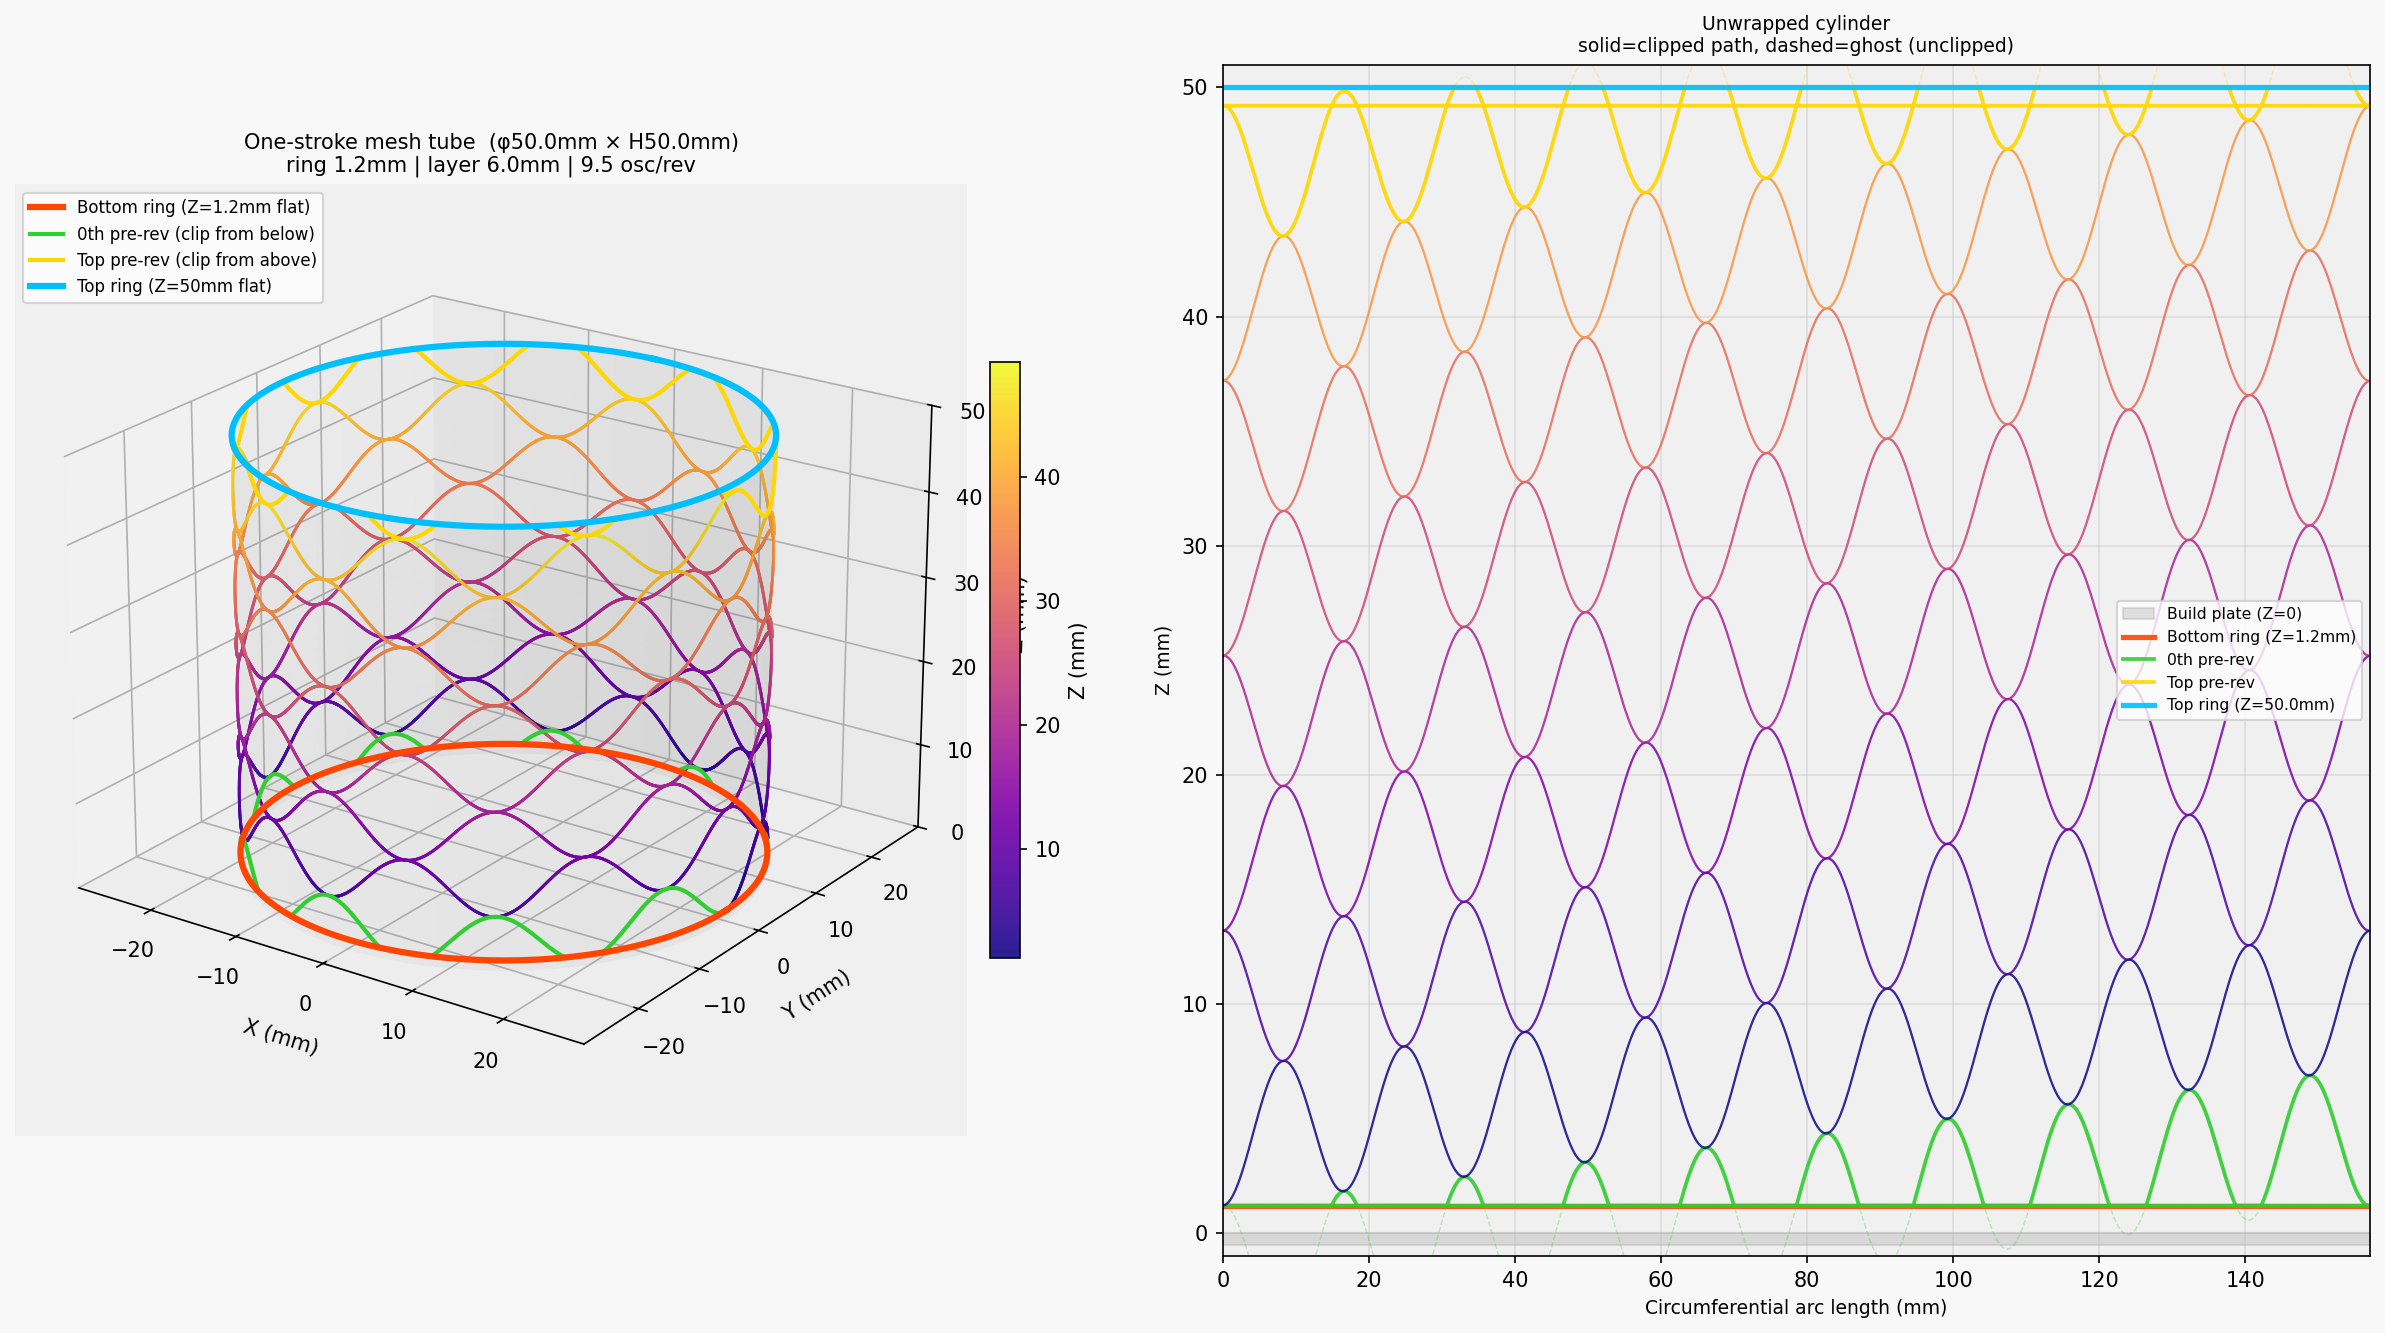
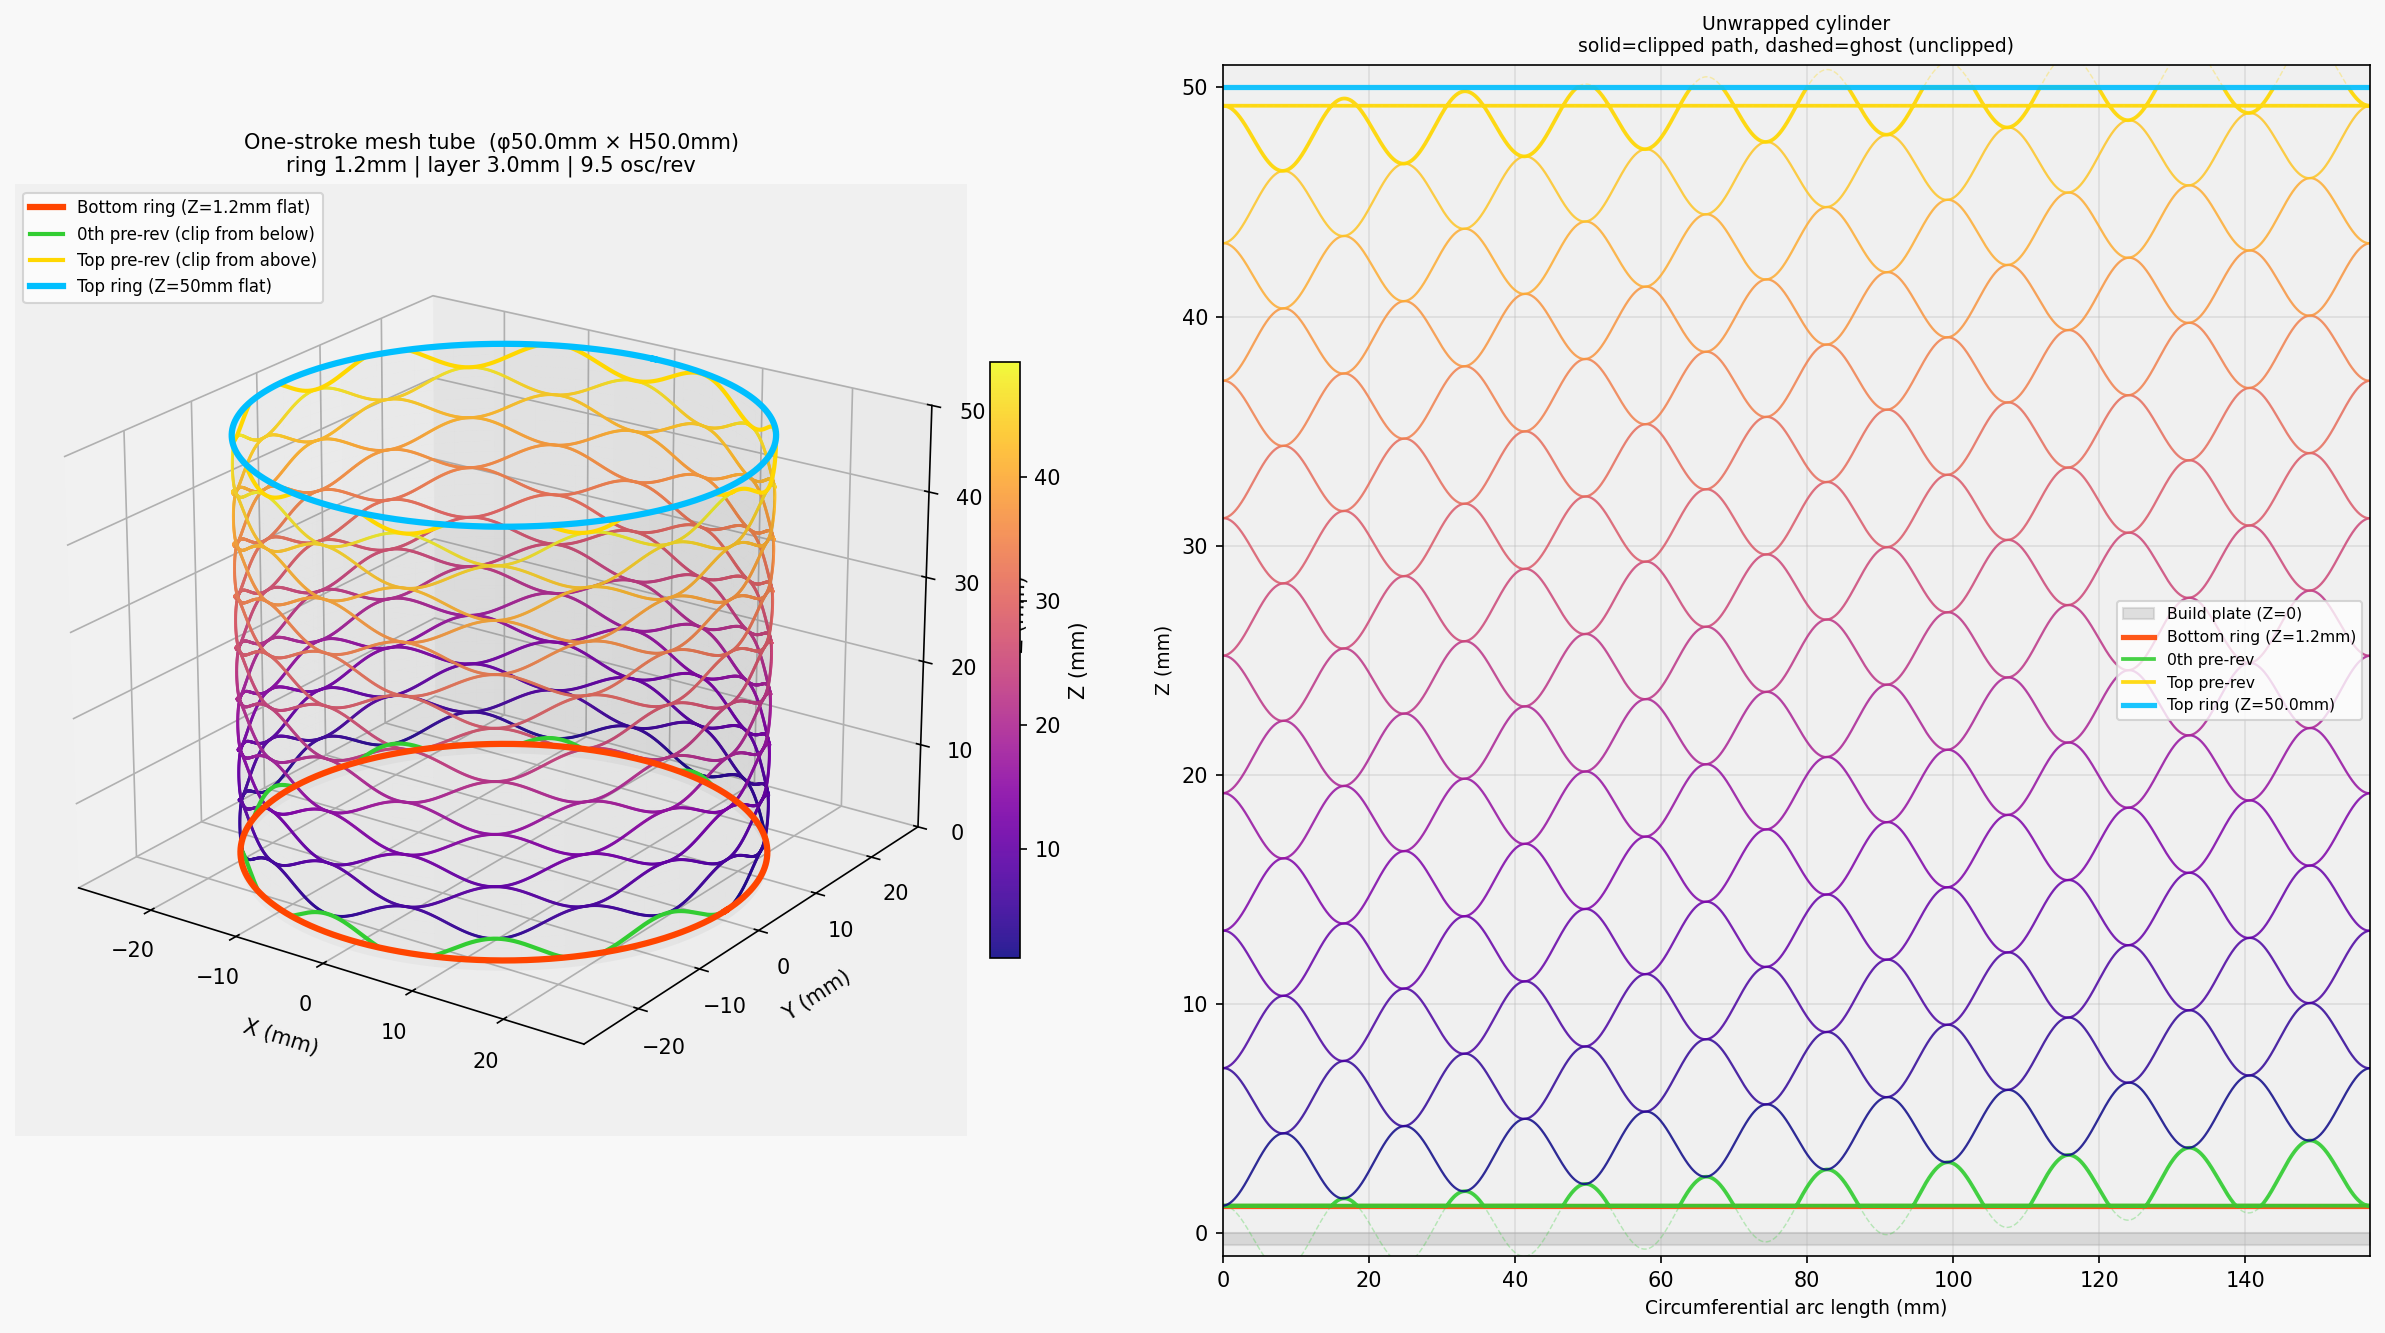
Halve sine amplitude: Z_AMP 3→1.5mm, LAYER_HEIGHT 6→3mm, mesh revs 7→15

diff --git a/visualize_mesh6.py b/visualize_mesh6.py
@@ -7,10 +7,10 @@ NOZZLE_DIA    = 1.8
 CIRCLE_DIA    = 50.0
 TOTAL_HEIGHT  = 50.0
 RING_HEIGHT   = 1.2
-LAYER_HEIGHT  = 6.0
+LAYER_HEIGHT  = 3.0
 N_OSC_PER_REV = 9.5
-Z_AMP         = LAYER_HEIGHT / 2   # = 3.0 mm
-N_MESH_REVS   = 7
+Z_AMP         = LAYER_HEIGHT / 2   # = 1.5 mm
+N_MESH_REVS   = 15
 # --------------------
 
 R = CIRCLE_DIA / 2
